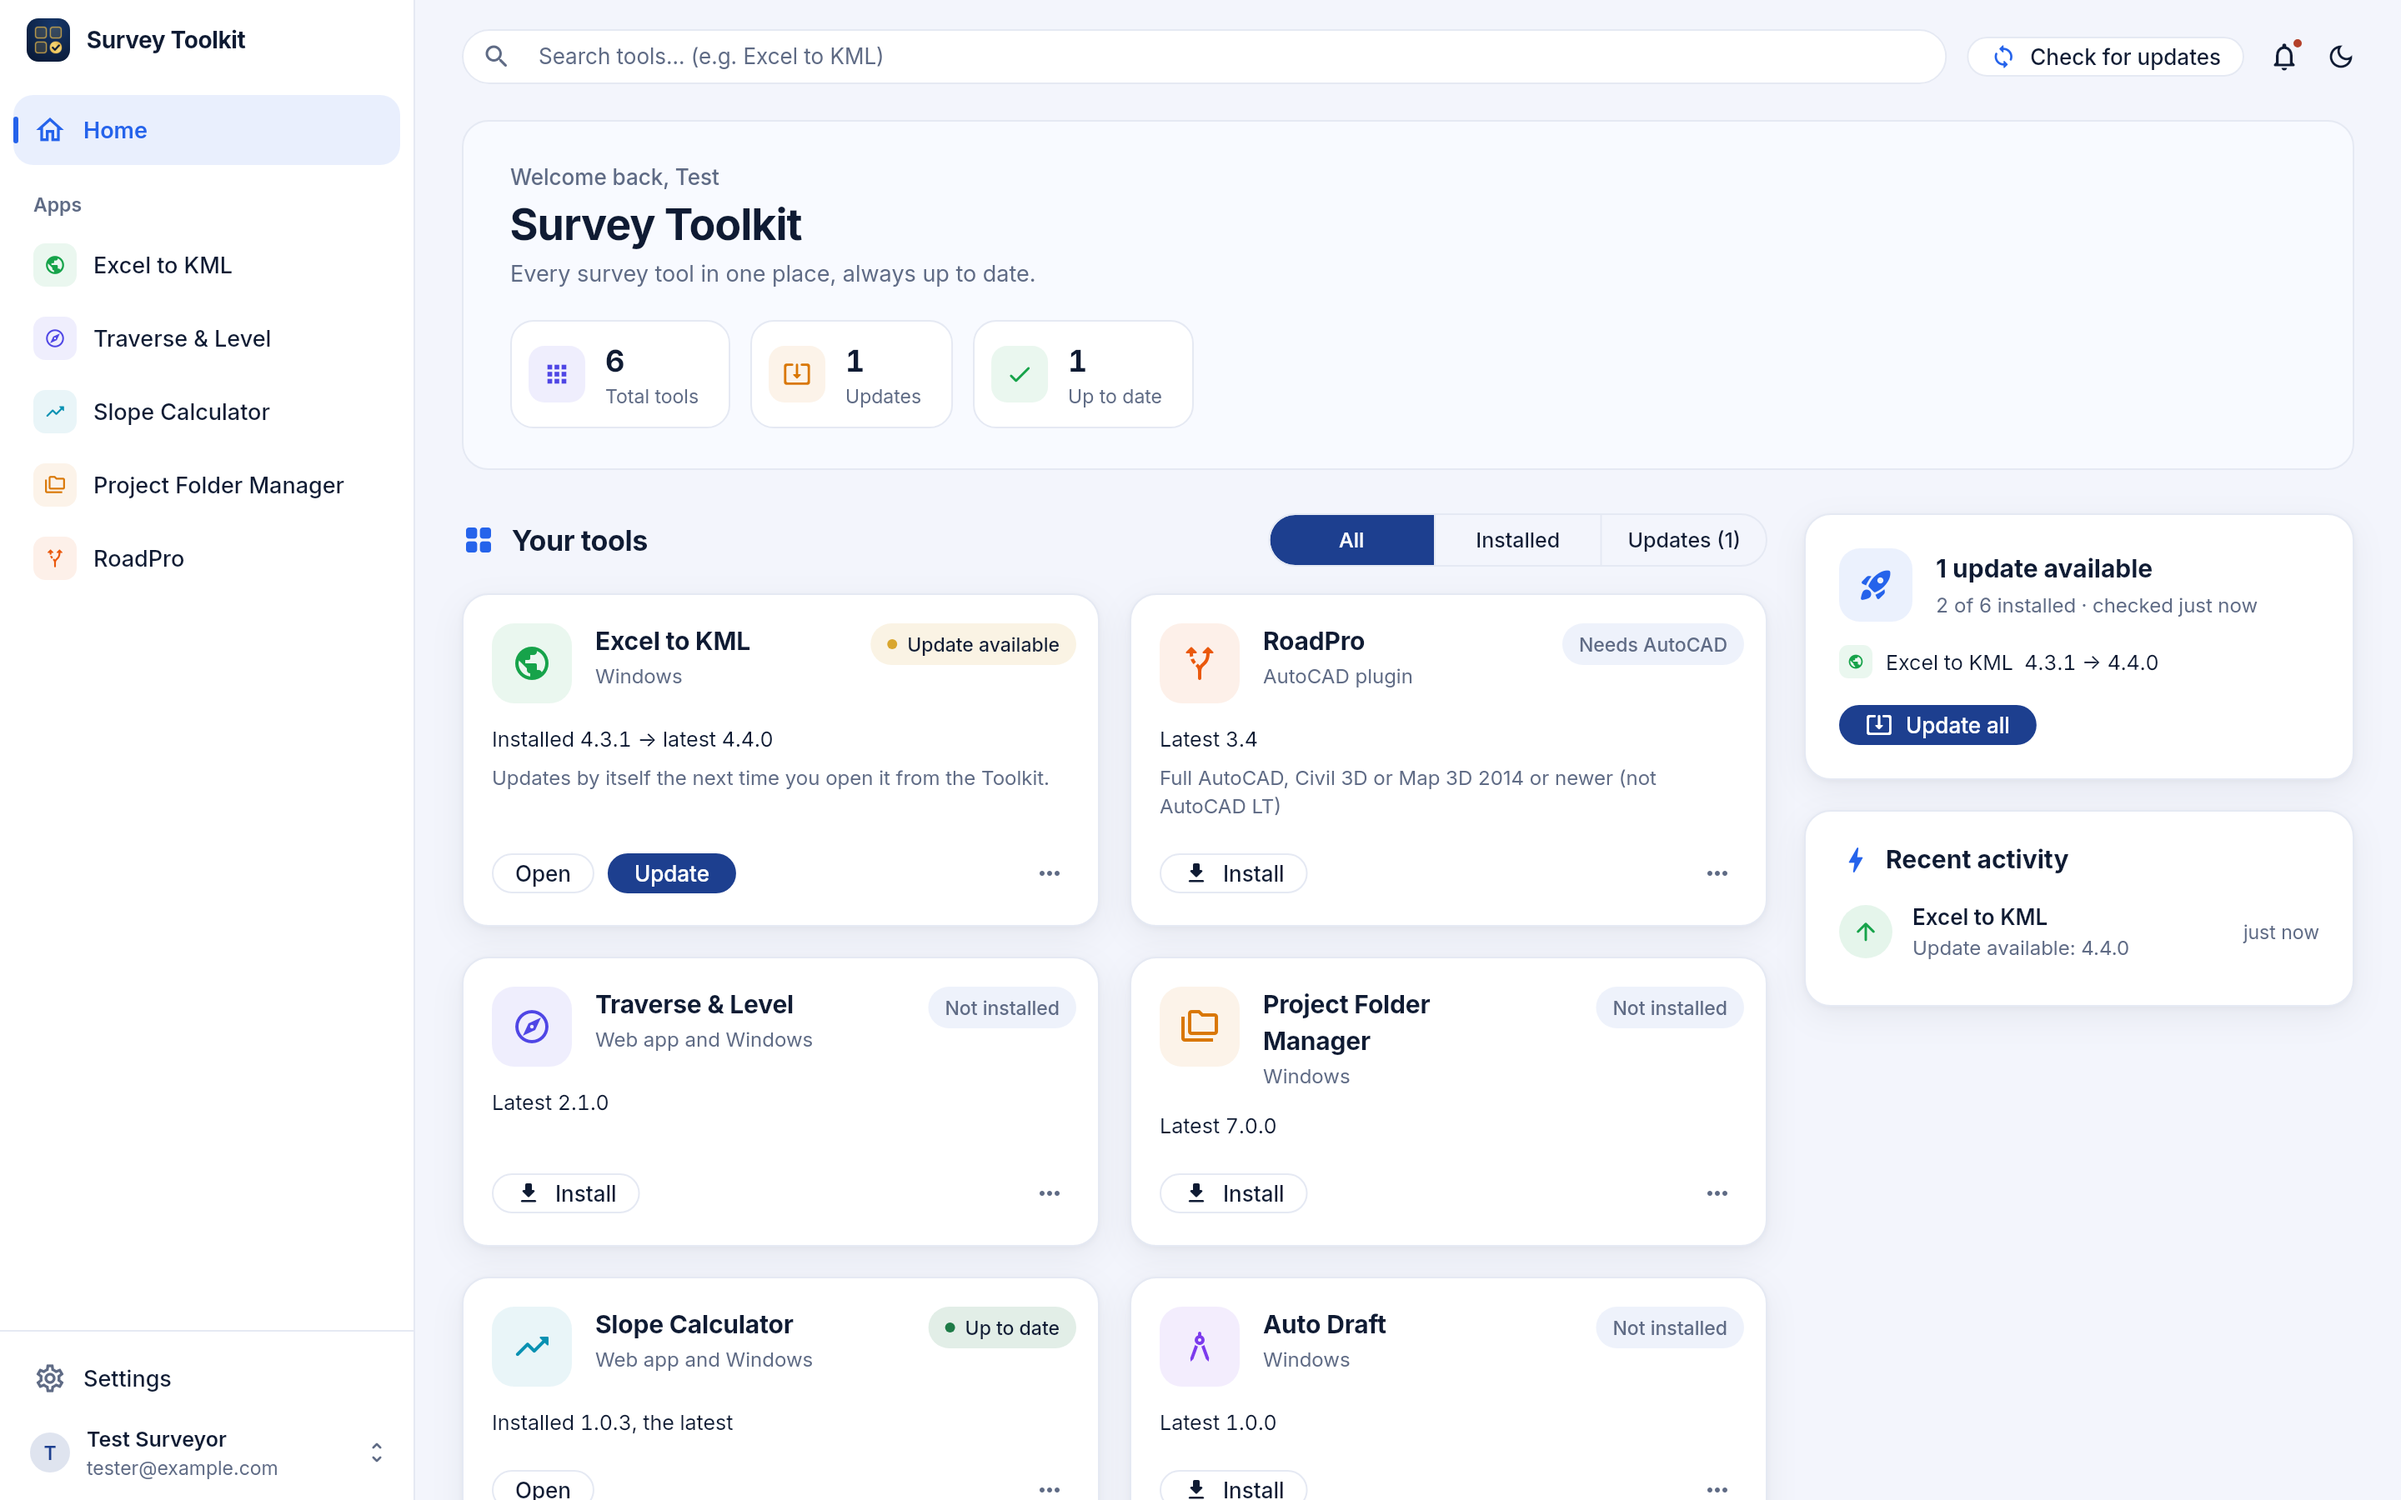
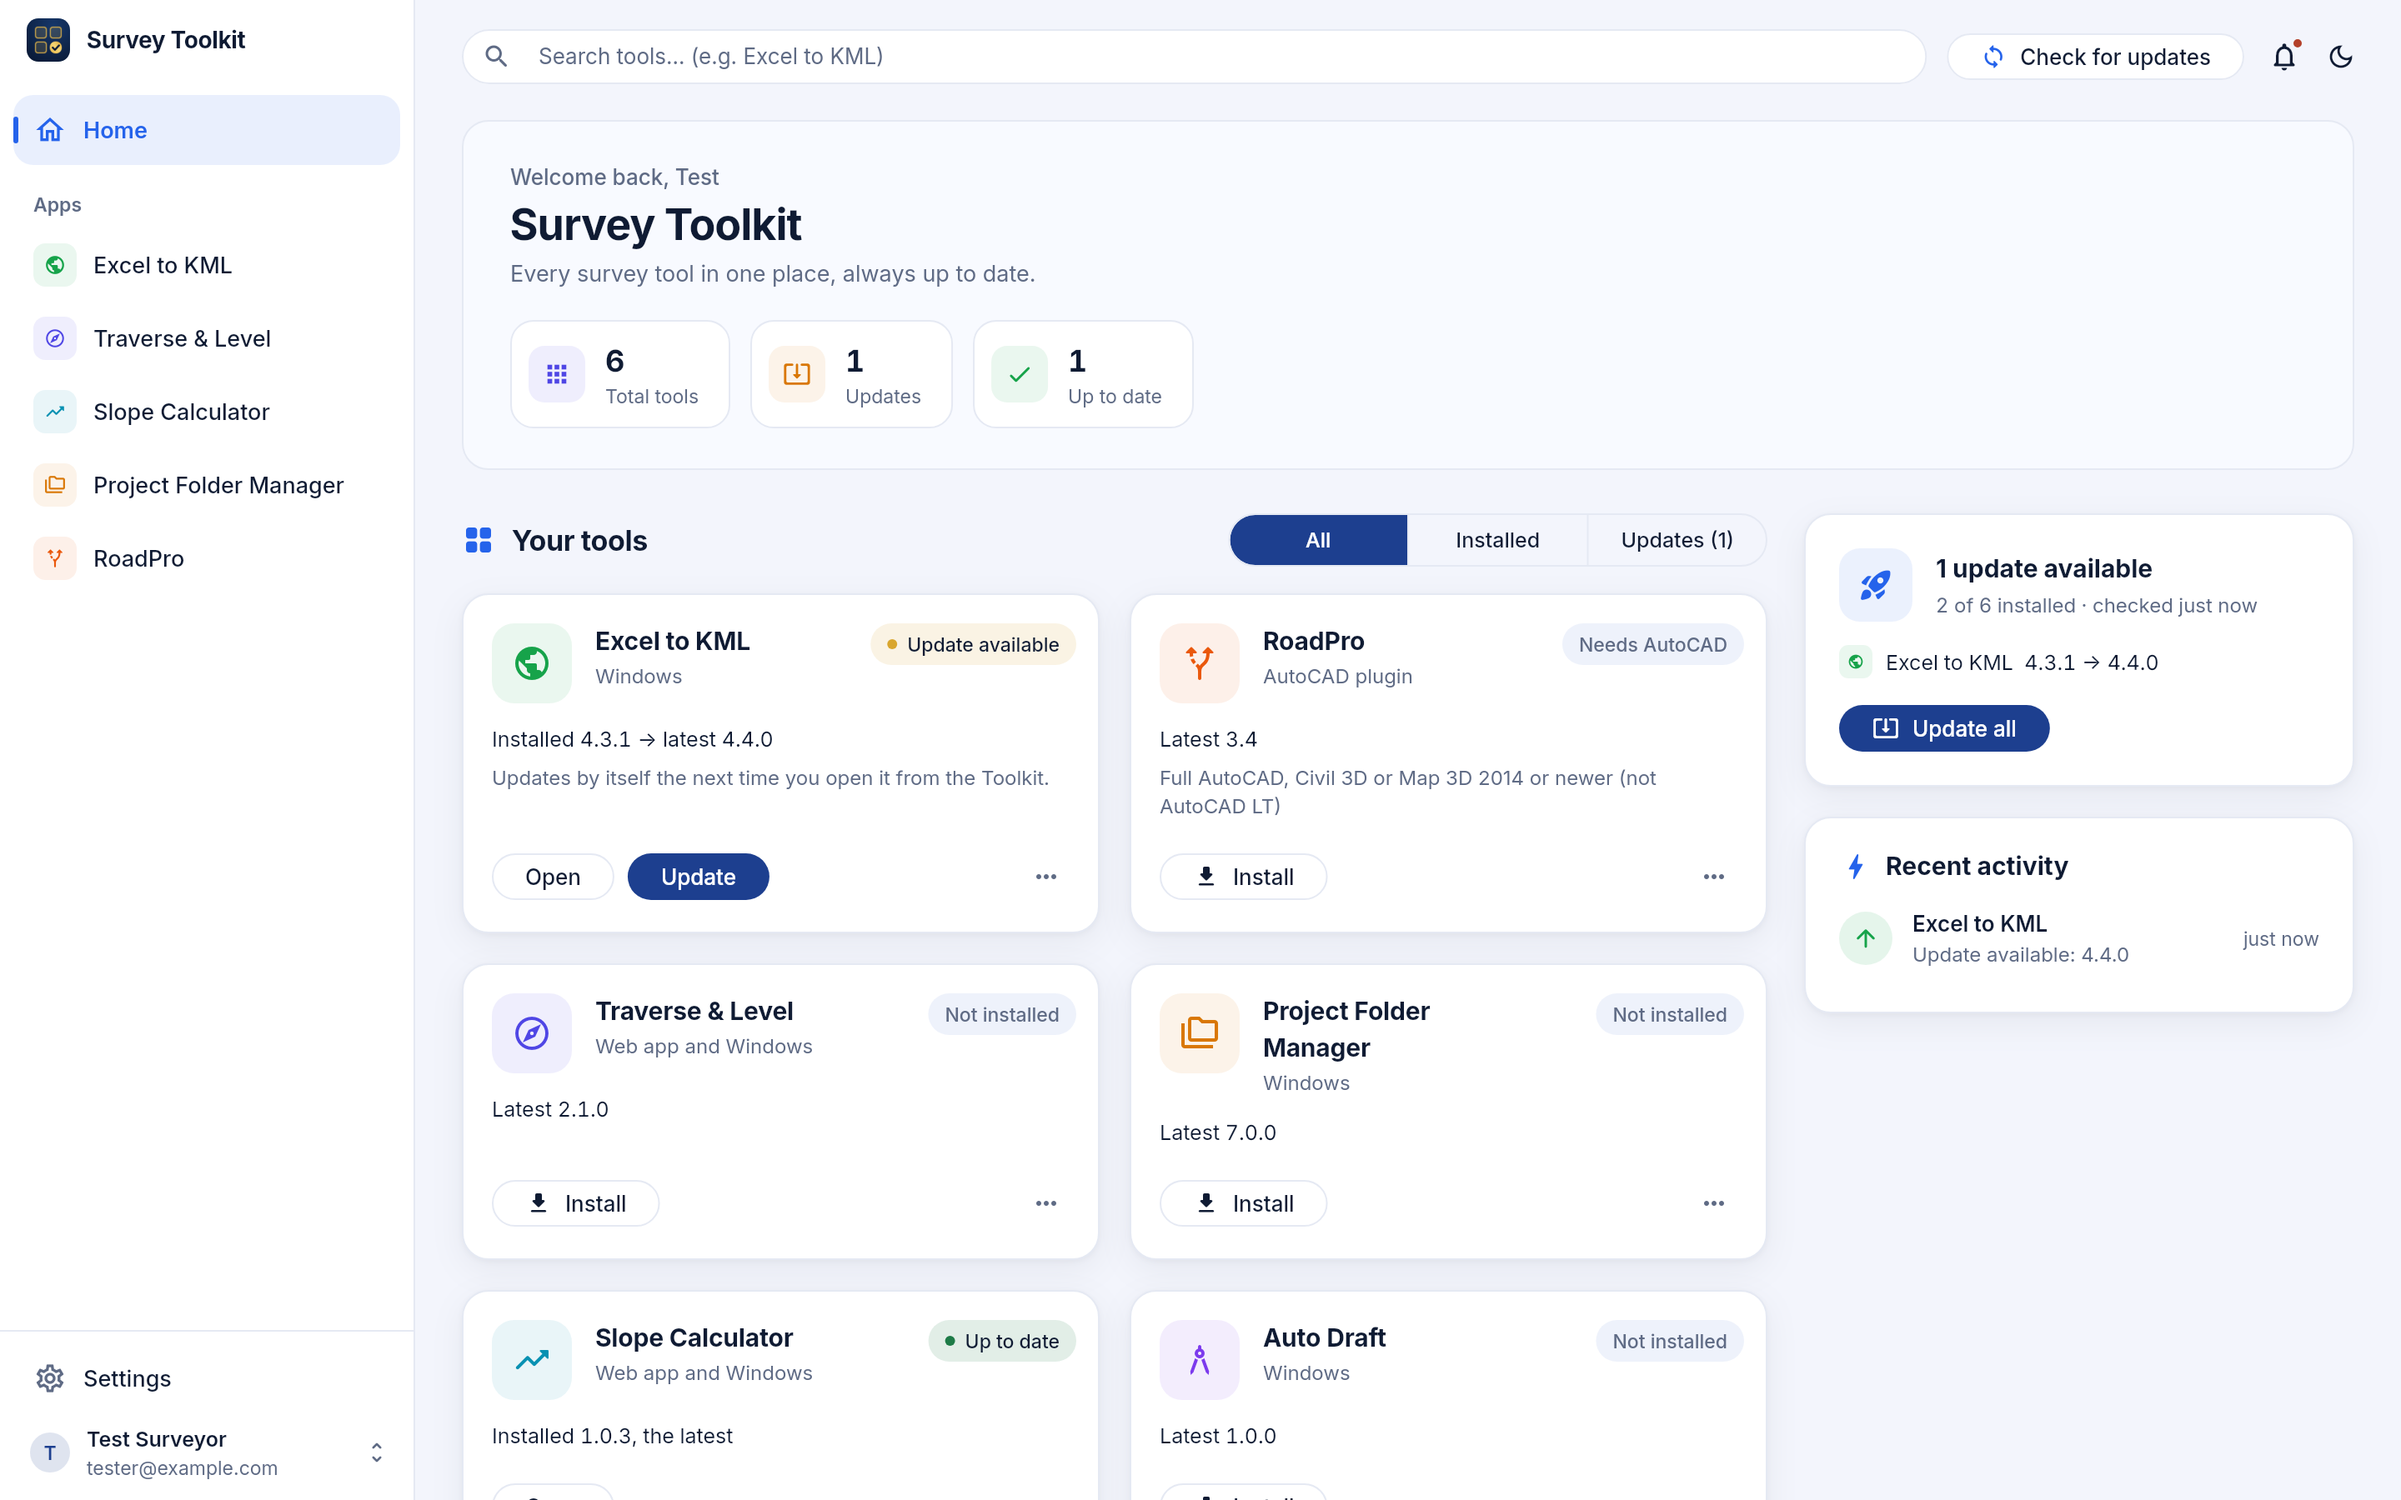
Roomier buttons: 36 px tall, 20 px either side
Buttons, the filter pills and icon buttons were tight at 32 px; now 36 px tall with
20 px of padding at each side (text buttons 14 px).

Claude-Session: https://claude.ai/code/session_01WBEY1H8rXcGm4de5BZo5nb

diff --git a/lib/src/ui/theme.dart b/lib/src/ui/theme.dart
@@ -1,5 +1,5 @@
 // The look: a calm desktop program, like Windows 11. Grey page, white panels, thin lines, 13 px
-// Inter text, 32 px controls; the logo's navy for actions and its gold only for updates. JetBrains Mono
+// Inter text, 36 px controls; the logo's navy for actions and its gold only for updates. JetBrains Mono
 // for versions and codes. Both fonts ship inside the app, so it looks the same offline.
 import 'package:flutter/material.dart';
 
@@ -101,7 +101,7 @@ Color highlightColour(Brightness b) => b == Brightness.light ? const Color(0xFF2
 
 /// Sizes every screen uses: a desktop program for a mouse, not a phone
 abstract final class Sizes {
-  static const control = 32.0;
+  static const control = 36.0;
   static const radius = 8.0;
   static const panelRadius = 16.0;
   static const header = 48.0;
@@ -219,7 +219,7 @@ ThemeData buildTheme(Brightness brightness) {
     filledButtonTheme: FilledButtonThemeData(
       style: FilledButton.styleFrom(
         minimumSize: buttonSize,
-        padding: const EdgeInsets.symmetric(horizontal: 16),
+        padding: const EdgeInsets.symmetric(horizontal: 20, vertical: 8),
         shape: pill,
         textStyle: buttonText,
         iconSize: 16,
@@ -228,7 +228,7 @@ ThemeData buildTheme(Brightness brightness) {
     outlinedButtonTheme: OutlinedButtonThemeData(
       style: OutlinedButton.styleFrom(
         minimumSize: buttonSize,
-        padding: const EdgeInsets.symmetric(horizontal: 14),
+        padding: const EdgeInsets.symmetric(horizontal: 20, vertical: 8),
         foregroundColor: c.ink,
         backgroundColor: c.card,
         side: BorderSide(color: c.line),
@@ -240,7 +240,7 @@ ThemeData buildTheme(Brightness brightness) {
     textButtonTheme: TextButtonThemeData(
       style: TextButton.styleFrom(
         minimumSize: buttonSize,
-        padding: const EdgeInsets.symmetric(horizontal: 10),
+        padding: const EdgeInsets.symmetric(horizontal: 14, vertical: 8),
         foregroundColor: c.ink,
         shape: shape,
         textStyle: buttonText,
@@ -259,8 +259,8 @@ ThemeData buildTheme(Brightness brightness) {
     ),
     segmentedButtonTheme: SegmentedButtonThemeData(
       style: SegmentedButton.styleFrom(
-        minimumSize: const Size(32, 32),
-        padding: const EdgeInsets.symmetric(horizontal: 16),
+        minimumSize: const Size(36, 36),
+        padding: const EdgeInsets.symmetric(horizontal: 20),
         textStyle: const TextStyle(fontFamily: textFont, fontSize: 12.5, fontWeight: FontWeight.w500),
         foregroundColor: c.ink,
         selectedForegroundColor: brightness == Brightness.light ? Colors.white : BrandColors.navy,
